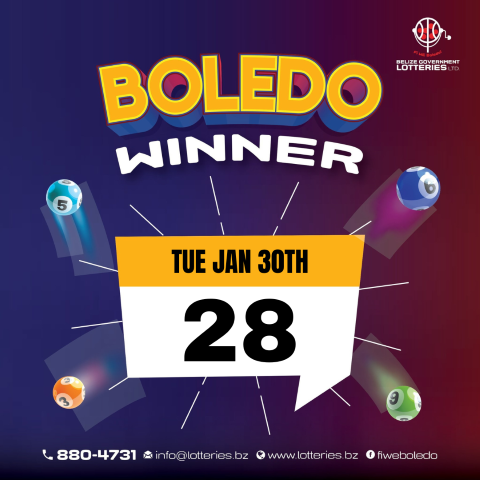
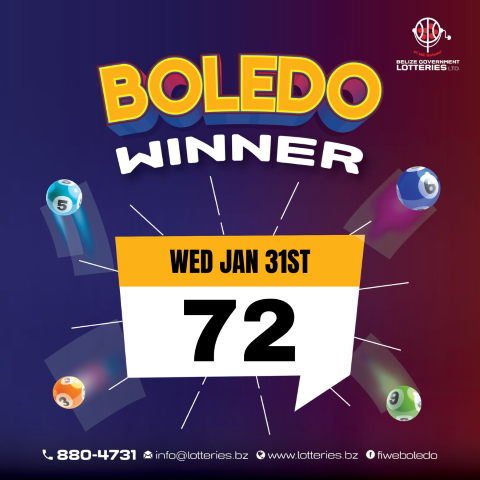
Update Winning Number

Changed region(s): [[0.375, 0.625, 0.625, 0.7812], [0.3438, 0.5, 0.6562, 0.5938], [0.375, 0.7188, 0.4062, 0.75]]

diff --git a/winningNumbers.js b/winningNumbers.js
@@ -38,7 +38,8 @@ var boledoDatabase = {
     "26/01/2024": '59',
     "29/01/2024": '32',
     "30/01/2024": '28',
-    "31/01/2024": '72'
+    "31/01/2024": '72',
+    "01/02/2024": '47',
 }
 
 var ordinaryLotteryDatabase = {
